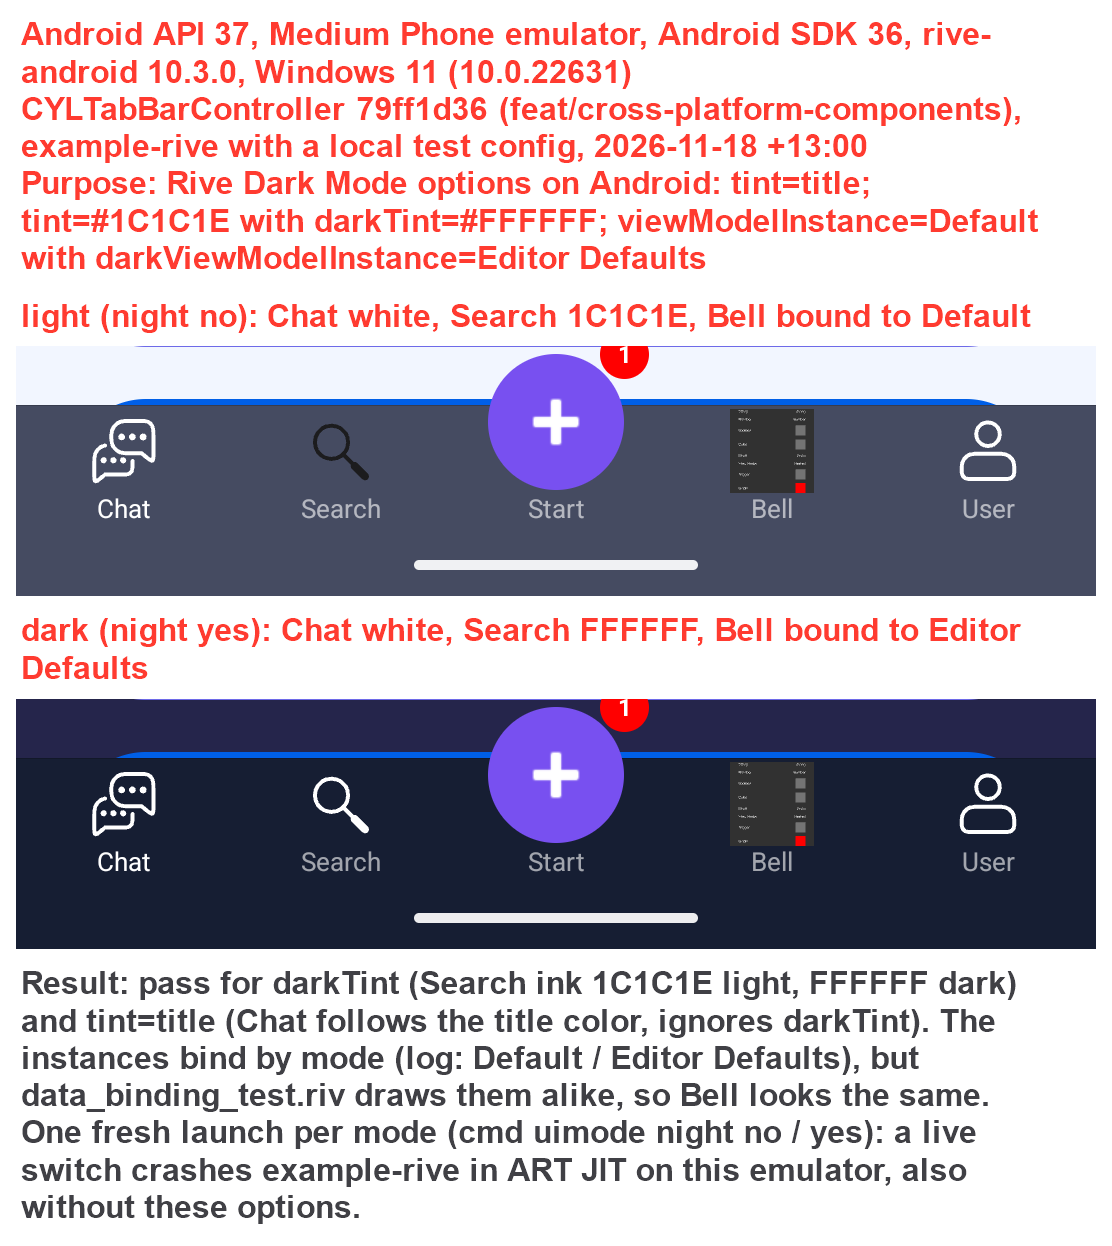
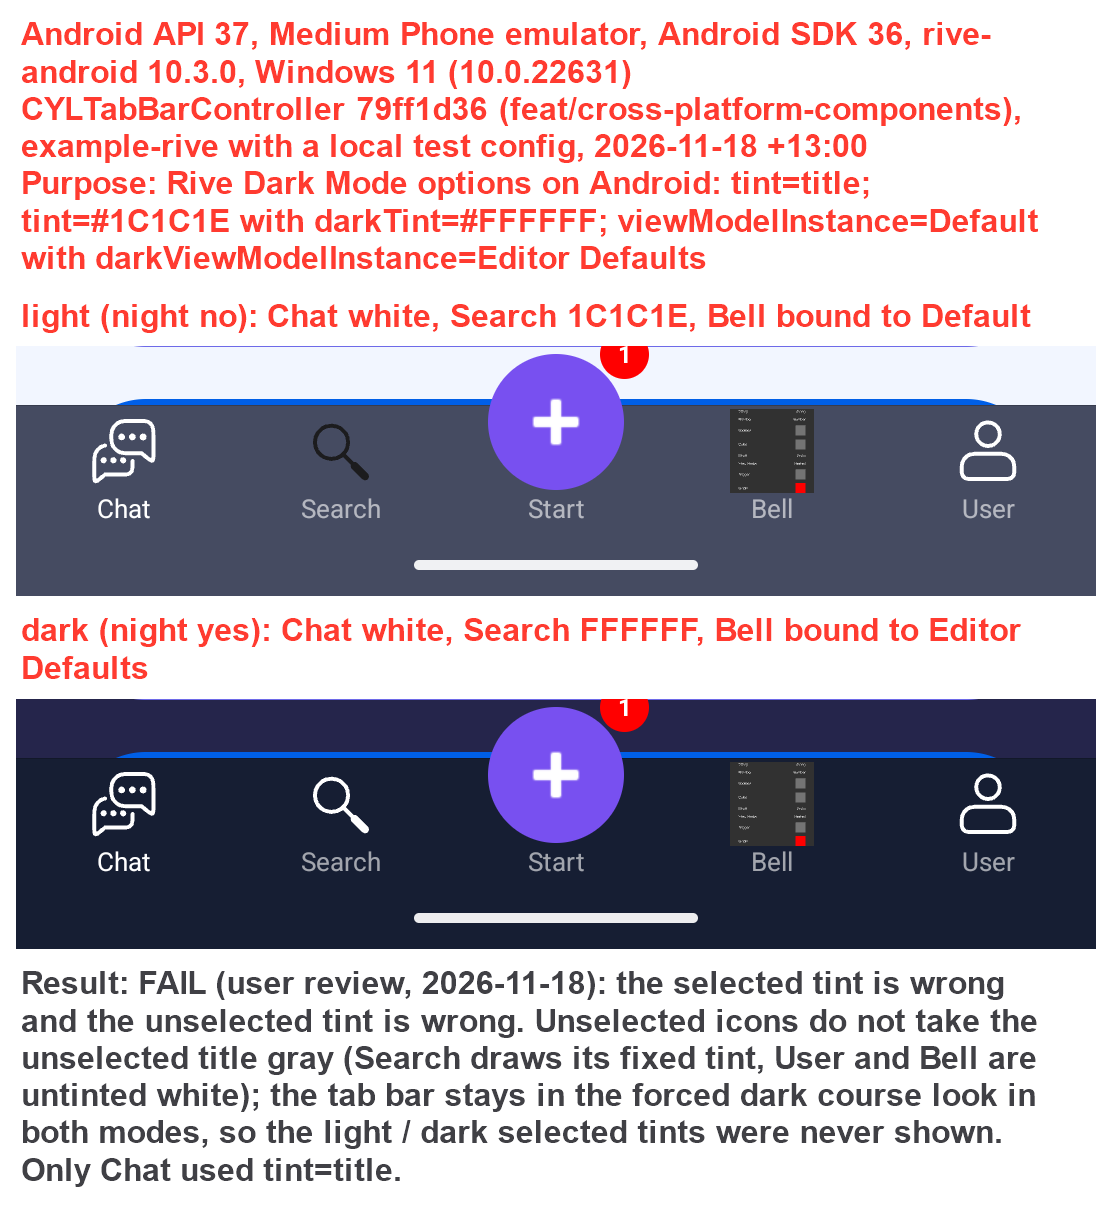
docs: 📝 Android Rive Dark Mode check marked not pass
The user rejected the screenshot: selected and unselected tints are
wrong. Unselected icons ignore the unselected title color and the bar
never leaves the forced dark look, so the light and dark tints were not
shown.

By  @ChenYilong <luohanchenyilong@163.com>

Claude-Session: https://claude.ai/code/session_017y7XNxgYZUWmEAr5XcQU9s

Changed region(s): [[0.0, 0.0306, 1.0, 0.9793]]

diff --git a/docs/Animated-Item.md b/docs/Animated-Item.md
@@ -75,7 +75,7 @@
 | 本条按用户要求使用英文（见右列）。 | DONE (2026-11-17, **verified downstream**: with `83a8ff8a` pinned, CollectionViewClassifyMenu's static-library menu suite passes, its run 44092883295 on `f8301a4` is fully green, all five test suites pass on `eb96f99`, no "module 'CYLAnimatedItem' not found"; its workarounds (modular headers, the CI diagnostic flag) are removed in `698260e`. In this repository run 936 passed the framework build, unit tests and demos with it): follow-up of the static-library bug above, reported by the CYLSearchViewController session. **Seen** (CollectionViewClassifyMenu run 44071148862, menu job, pinned at `c8132d26`, with `-disable-deserialization-recovery`): "modularization issue on 'CYLAnimatedItemView', reference from 'CollectionViewClassifyMenu' not resolvable: expected in 'CYLAnimatedItem' but found in 'CYLTabBarController'". So the angle-form `#import <CYLAnimatedItem/…>` of `c8132d26` still let clang compile the component's header into the CYLTabBarController module in a static-library app. **Fix (core)**: every public header of this library that imports a CYLAnimatedItem header (`CYLTabBarController.h` twice, `CYLSwiftInterface.h` twice, `CYLUtils.h`, `CYLUtilsMacros.h`, `UIControl+CYLTabBarItemAnimationPlayer.h`) now writes `@import CYLAnimatedItem;` when modules are on and CocoaPods' `CYLAnimatedItem-umbrella.h` exists (static libraries and frameworks alike), so the component is only ever imported as its module; the old imports stay for the Xcode framework target (its own `CYL_ANIMATED_ITEM_SEPARATE_MODULE` path, `67c79792`) and SwiftPM. Risk to check in CI: the CYLTabBarController pod target must see CYLAnimatedItem's module map (CocoaPods passes `-fmodule-map-file` for dependencies that define a module). `pod lib lint --quick` passes; not built here (Linux). |
 | 本条按用户要求使用英文（见右列）。 | DONE (2026-11-17): the first iOS CI run that finished since run 850, [run 936](https://github.com/ChenYilong/CYLTabBarController/actions/runs/44099891582) (`1e192d62`, which contains `afebfddc`, `c8132d26`, `83a8ff8a`, `67c79792` and the Lottie downloads `8990125c`). **Passed**: Framework build and analyze (no warnings: the 4 umbrella warnings of runs 848 and 850 are gone), Unit tests, Carthage (both XCFrameworks), Demo . (Objective-C example), Example-Swift, -02, -03, -04, Example-SwiftUI, Example-GIF, Example-network-download, shellcheck. **Failed and fixed here**: (1) pod lib lint: the `CYLAnimatedItem` test spec (`CYLAnimatedItemTests`, Objective-C only) could not link the Swift runtime its component needs ("Undefined symbol: __swift_FORCE_LOAD_$_swiftCompatibility56" on Xcode 26.6); the test spec now has one empty Swift file, `CYLAnimatedItemTestsSwiftRuntime.swift`. (2) Example-Swift-Gallery and Example-Swift-SwiftManager-FlatDesign (SwiftPM): "Module 'CYLTabBarControllerSwift' not found (in target 'CYLAnimatedItem')": `CYLTabBarItemAnimationPlayableView.h` imported the tab bar's Swift target under SwiftPM; it now imports the component's own `CYLAnimatedItemSwift` (the rule: the component never depends on the tab bar). **Still failing, accepted**: Example-Swift-SwiftManager (SwiftPM, Objective-C types the SwiftPM Swift target cannot see, [Swift-Migration.md](Swift-Migration.md)). `pod lib lint --quick` passes for both podspecs; the fixes wait for the next CI run. |
 | 本条按用户要求使用英文（见右列）。 | DONE (2026-11-18, macOS 27.3 + Xcode 27.2, iPhone 18 Pro iOS 27.2): TODO (6), the rest of the iOS demo. User prompt, verbatim (relayed by the Mac-CYLTableViewPlaceHolder session): "continue fix TODO". English: continue fixing the open TODO items. **Scope**: the TODO status still said "iOS simulator left" although the iOS demo exists (Example-GIF's Messages tab); the Android demo also has a vertical item with an accessory and dragging, which iOS lacked. Add that item to the iOS demo (vertical axis, an accessory with its own tap, `dragEnabled` + `dragMovesView`, the last event shown under it), localize it, screenshot it on iOS 27.2, update the TODO status. **Result**: Example-GIF's Messages tab has a fifth item, `CYLAnimatedItemDemoInteractive`: vertical (`axis`), a red cross as `accessoryView` (VoiceOver label "Delete"), `isDragEnabled` + `dragMovesView`; its delegate writes the last event under it (`CYLAnimatedItemDemoEvent`) and announces it to VoiceOver; 7 new strings in all 33 languages. Checked on the simulator with axe: a tap on the cross gives "Accessory tapped", a tap on the item "Item tapped", a drag "Drag ended, sprang back" and the item's frame is back where it was. Screenshot: `docs/assets/animated-item-ios-demo-interactive-ios27.2.png`. No bug found. |
-| 本条按用户要求使用英文（见右列）。 | DONE in part (2026-11-18, macOS 27.3 + Xcode 27.2, iPhone 18 Pro iOS 27.2): Rive Dark Mode API in the core. User prompt, verbatim: "截图中显示异常白底白字，如果rive有tint 属性，那么我推测他也应该有暗黑与白天模式适配的相关属性。寻找rive官方引擎对暗黑 白天模式适配 因为目前从截图上看 白底白字的icon 无法去辨认。请在CYLTabBar Core核心代码上修改，增加相关接口，然后在example适配。" English: the screenshot shows white icons on a white bar; if Rive has a tint property it should also have light / dark mode properties. Find how the official Rive engine adapts to dark and light mode (the white-on-white icons cannot be recognized), change the CYLTabBar core to add the API, then adapt the examples. **Findings**: the official Rive pattern is a view model with named instances ("Light", "Dark") rebound when the color scheme changes (Rive Apple data binding docs: `createViewModelInstance(.name(_, from:))`, `StateMachine.bindViewModelInstance(_:)`, RiveRuntime 6.29). The core already has `CYLTabBarRiveDarkURL` / `CYLTabBarRiveDarkFilePath` (a dark file), `CYLTabBarAnimationColors` / `CYLTabBarAnimationDarkColors` (color properties) and `tint`. **Plan**: (1) options `viewModelInstance` / `darkViewModelInstance`; (2) option `darkTint`; (3) the tint follows a light / dark switch (it resolved its color once); (4) Example-Rive and the docs; Android and HarmonyOS as a TODO. **Result**: new options `CYLTabBarAnimationOptionDarkTint` (`darkTint`: the Dark Mode color of a fixed `tint`; both Rive views resolve it again on a light / dark switch), `CYLTabBarAnimationOptionRiveViewModelInstance` / `CYLTabBarAnimationOptionRiveDarkViewModelInstance` (`viewModelInstance` / `darkViewModelInstance`: Rive's named theme instances, created with `createViewModelInstance(.name(_, from: .artboardDefault))` and rebound with `StateMachine.bindViewModelInstance` on a trait change, keeping the selected state and the color overrides). Item (3) was not needed: the "title" tint already follows light / dark (the tab bar calls `-cyl_setNeedsApplyTabBarItemAnimationTintColors` from `traitCollectionDidChange`). Example-SwiftUI-Rive / Example-Rive: icons.riv uses `tint` "title" (the selected icon in the title's tint, the user's correction: a fixed tint lost the selected color), and `-CYLDemoRiveFollowsAppearance YES` keeps the system appearance instead of the course's forced dark bar. Checked: Example-Rive builds; with tint #1C1C1E + darkTint #FFFFFF the icons switch live between light and Dark Mode: [ios-rive-dark-tint-appearance-switch.png](assets/ios-rive-dark-tint-appearance-switch.png) (iOS 27.2, iPhone 18 Pro, Xcode 27.2, 2026-11-18). `scripts/check-public-api-comments.py` OK. **Left (TODO)**: the screenshot with `tint` "title" in light and Dark Mode, the iOS unit tests, and a .riv with Light / Dark view model instances to show the instance switch (user, 2026-11-18: "download file from internet for this case"; no public file named for themes was found on GitHub; candidates downloaded from MIT-licensed Rive repositories: rive-ios `Tests/Assets/data_binding_test.riv`, whose view model "Test" has the instances "Default" and "Editor Defaults" and a Color property (rive-ios `Tests/DataBindingTests.swift`), and rive-runtime `tests/unit_tests/assets/color_passthrough_test.riv`; next: show one as a tab with `viewModelInstance` "Default" / `darkViewModelInstance` "Editor Defaults", screenshot light and dark, then keep it with a NOTICE). **Android port written on the Mac (2026-11-18)** at the user's request ("转写你刚刚的接口适配android端，将iOS代码撰写 翻译为android 代码，方便把你因为机器负载无法执行的任务交给the Windows session's CYLSearchViewController 使用android测试模拟器效果": port the iOS API to Android so the Windows session can test it on the emulator): keys `CYLTabBarAnimationOptionDarkTint`, `CYLTabBarAnimationOptionRiveViewModelInstance`, `CYLTabBarAnimationOptionRiveDarkViewModelInstance` (CYLTabBarItemAnimationKeys, aliases in CYLConstants); `CYLRiveTabBarItemAnimationView.fixedTintColor(configuration)` with `onConfigurationChanged`, and `cyl_bindThemeInstance` (rive-android by reflection, bound after load and on a night-mode change, keeping the active state); unit test `CYLRiveDarkModeTest`. Fixed on both platforms while porting: `darkTint` without a fixed tint (with "title") is ignored, it used to override the title color at night. Not compiled on the Mac (load average about 725): the Windows session builds, runs the tests and checks the emulator. **Handed off (2026-11-18)** at the user's request ("把你因为机器负载无法执行的任务交给the Windows session's CYLSearchViewController 使用android测试模拟器效果") to the Windows CYLSearchViewController session: Android parity of `darkTint` / `viewModelInstance` / `darkViewModelInstance`, the icons.riv tint check under `adb shell cmd uimode night`, and the instance switch with the candidate files on the Android emulator. Kept on the Mac (needs Xcode): the iOS unit tests, the iOS `tint` "title" screenshot: the Mac was overloaded (load average 832, `ps` and `simctl` hung), so the simulator runs stopped; Android and HarmonyOS parity. **Android checked on Windows (2026-11-18)**, Medium Phone emulator API 37, Android SDK 36, rive-android 10.3.0, JDK 17, Windows 11: (1) `:cylanimateditem` unit tests 44 of 44 after two fixes in `79ff1d36` (the test fake exposed `val file` next to `getFile()`, a JVM signature clash; a file used without a `stateMachine` option never recorded the selection, so a theme instance bound on a night switch lost it: the last frame and stop paths record it now). (2) `darkTint`: Search tab with `tint` "#1C1C1E" + `darkTint` "#FFFFFF" draws ink 1C1C1E in light and FFFFFF in dark; `tint` "title" (Chat) follows the title color and ignores `darkTint` ([assets/android-api37-20261118-rive-dark-mode-options.png](assets/android-api37-20261118-rive-dark-mode-options.png), 2026-11-18 +13:00). Example-Rive forces night (`localNightMode = MODE_NIGHT_YES`), so the check used a local test build that follows the system, not committed. (3) Instances: with `data_binding_test.riv` (view model "Test", artboard "Artboard", no state machine) the light build binds "Default" and the dark build "Editor Defaults" on the artboard (debug log), but the file draws both alike, so nothing visible changes; `color_passthrough_test.riv` has only one instance ("Instance"; the missing dark name logs a warning and the light side falls back to the default instance). Neither file is kept. (4) A live `cmd uimode night yes/no` crashes Example-Rive in ART's JIT thread (SIGSEGV in `JitCompileTask::Finalize`) on this emulator, also in the unmodified example without these options and after `cmd package compile -m speed`; each mode was checked on a fresh launch (the same init / load path a recreated activity takes). **Still left (TODO)**: a .riv whose light and dark instances look different, to show the switch; the live-switch crash in Example-Rive (Android 17 x86_64 emulator), to be checked on another image or device. |
+| 本条按用户要求使用英文（见右列）。 | DONE in part (2026-11-18, macOS 27.3 + Xcode 27.2, iPhone 18 Pro iOS 27.2): Rive Dark Mode API in the core. User prompt, verbatim: "截图中显示异常白底白字，如果rive有tint 属性，那么我推测他也应该有暗黑与白天模式适配的相关属性。寻找rive官方引擎对暗黑 白天模式适配 因为目前从截图上看 白底白字的icon 无法去辨认。请在CYLTabBar Core核心代码上修改，增加相关接口，然后在example适配。" English: the screenshot shows white icons on a white bar; if Rive has a tint property it should also have light / dark mode properties. Find how the official Rive engine adapts to dark and light mode (the white-on-white icons cannot be recognized), change the CYLTabBar core to add the API, then adapt the examples. **Findings**: the official Rive pattern is a view model with named instances ("Light", "Dark") rebound when the color scheme changes (Rive Apple data binding docs: `createViewModelInstance(.name(_, from:))`, `StateMachine.bindViewModelInstance(_:)`, RiveRuntime 6.29). The core already has `CYLTabBarRiveDarkURL` / `CYLTabBarRiveDarkFilePath` (a dark file), `CYLTabBarAnimationColors` / `CYLTabBarAnimationDarkColors` (color properties) and `tint`. **Plan**: (1) options `viewModelInstance` / `darkViewModelInstance`; (2) option `darkTint`; (3) the tint follows a light / dark switch (it resolved its color once); (4) Example-Rive and the docs; Android and HarmonyOS as a TODO. **Result**: new options `CYLTabBarAnimationOptionDarkTint` (`darkTint`: the Dark Mode color of a fixed `tint`; both Rive views resolve it again on a light / dark switch), `CYLTabBarAnimationOptionRiveViewModelInstance` / `CYLTabBarAnimationOptionRiveDarkViewModelInstance` (`viewModelInstance` / `darkViewModelInstance`: Rive's named theme instances, created with `createViewModelInstance(.name(_, from: .artboardDefault))` and rebound with `StateMachine.bindViewModelInstance` on a trait change, keeping the selected state and the color overrides). Item (3) was not needed: the "title" tint already follows light / dark (the tab bar calls `-cyl_setNeedsApplyTabBarItemAnimationTintColors` from `traitCollectionDidChange`). Example-SwiftUI-Rive / Example-Rive: icons.riv uses `tint` "title" (the selected icon in the title's tint, the user's correction: a fixed tint lost the selected color), and `-CYLDemoRiveFollowsAppearance YES` keeps the system appearance instead of the course's forced dark bar. Checked: Example-Rive builds; with tint #1C1C1E + darkTint #FFFFFF the icons switch live between light and Dark Mode: [ios-rive-dark-tint-appearance-switch.png](assets/ios-rive-dark-tint-appearance-switch.png) (iOS 27.2, iPhone 18 Pro, Xcode 27.2, 2026-11-18). `scripts/check-public-api-comments.py` OK. **Left (TODO)**: the screenshot with `tint` "title" in light and Dark Mode, the iOS unit tests, and a .riv with Light / Dark view model instances to show the instance switch (user, 2026-11-18: "download file from internet for this case"; no public file named for themes was found on GitHub; candidates downloaded from MIT-licensed Rive repositories: rive-ios `Tests/Assets/data_binding_test.riv`, whose view model "Test" has the instances "Default" and "Editor Defaults" and a Color property (rive-ios `Tests/DataBindingTests.swift`), and rive-runtime `tests/unit_tests/assets/color_passthrough_test.riv`; next: show one as a tab with `viewModelInstance` "Default" / `darkViewModelInstance` "Editor Defaults", screenshot light and dark, then keep it with a NOTICE). **Android port written on the Mac (2026-11-18)** at the user's request ("转写你刚刚的接口适配android端，将iOS代码撰写 翻译为android 代码，方便把你因为机器负载无法执行的任务交给the Windows session's CYLSearchViewController 使用android测试模拟器效果": port the iOS API to Android so the Windows session can test it on the emulator): keys `CYLTabBarAnimationOptionDarkTint`, `CYLTabBarAnimationOptionRiveViewModelInstance`, `CYLTabBarAnimationOptionRiveDarkViewModelInstance` (CYLTabBarItemAnimationKeys, aliases in CYLConstants); `CYLRiveTabBarItemAnimationView.fixedTintColor(configuration)` with `onConfigurationChanged`, and `cyl_bindThemeInstance` (rive-android by reflection, bound after load and on a night-mode change, keeping the active state); unit test `CYLRiveDarkModeTest`. Fixed on both platforms while porting: `darkTint` without a fixed tint (with "title") is ignored, it used to override the title color at night. Not compiled on the Mac (load average about 725): the Windows session builds, runs the tests and checks the emulator. **Handed off (2026-11-18)** at the user's request ("把你因为机器负载无法执行的任务交给the Windows session's CYLSearchViewController 使用android测试模拟器效果") to the Windows CYLSearchViewController session: Android parity of `darkTint` / `viewModelInstance` / `darkViewModelInstance`, the icons.riv tint check under `adb shell cmd uimode night`, and the instance switch with the candidate files on the Android emulator. Kept on the Mac (needs Xcode): the iOS unit tests, the iOS `tint` "title" screenshot: the Mac was overloaded (load average 832, `ps` and `simctl` hung), so the simulator runs stopped; Android and HarmonyOS parity. **Android check: NOT PASS (user review, 2026-11-18: "mark as not pass selected tint is wrong un selected tint is wrong")**: in the screenshot below unselected icons do not take the unselected title color (Search draws its fixed tint, User and Bell are untinted white) and the tab bar keeps the forced dark course look in both modes, so the light / dark selected tints were never shown; only Chat used `tint` "title". Next: every tab with `tint` "title" and a tab bar whose title colors follow the mode, then check selected = selected title color and unselected = normal title color in light and dark; `darkTint` on its own tab against a light and a dark bar. Earlier notes: **Android checked on Windows (2026-11-18)**, Medium Phone emulator API 37, Android SDK 36, rive-android 10.3.0, JDK 17, Windows 11: (1) `:cylanimateditem` unit tests 44 of 44 after two fixes in `79ff1d36` (the test fake exposed `val file` next to `getFile()`, a JVM signature clash; a file used without a `stateMachine` option never recorded the selection, so a theme instance bound on a night switch lost it: the last frame and stop paths record it now). (2) `darkTint` (measured, but judged wrong by the user, above): Search tab with `tint` "#1C1C1E" + `darkTint` "#FFFFFF" draws ink 1C1C1E in light and FFFFFF in dark; `tint` "title" (Chat) follows the title color and ignores `darkTint` ([assets/android-api37-20261118-rive-dark-mode-options.png](assets/android-api37-20261118-rive-dark-mode-options.png), 2026-11-18 +13:00). Example-Rive forces night (`localNightMode = MODE_NIGHT_YES`), so the check used a local test build that follows the system, not committed. (3) Instances: with `data_binding_test.riv` (view model "Test", artboard "Artboard", no state machine) the light build binds "Default" and the dark build "Editor Defaults" on the artboard (debug log), but the file draws both alike, so nothing visible changes; `color_passthrough_test.riv` has only one instance ("Instance"; the missing dark name logs a warning and the light side falls back to the default instance). Neither file is kept. (4) A live `cmd uimode night yes/no` crashes Example-Rive in ART's JIT thread (SIGSEGV in `JitCompileTask::Finalize`) on this emulator, also in the unmodified example without these options and after `cmd package compile -m speed`; each mode was checked on a fresh launch (the same init / load path a recreated activity takes). **Still left (TODO)**: a .riv whose light and dark instances look different, to show the switch; the live-switch crash in Example-Rive (Android 17 x86_64 emulator), to be checked on another image or device. |
 | 本条按用户要求使用英文（见右列）。 | TODO (2026-11-18, macOS 27.3 + Xcode 27.2, iPhone 18 Pro iOS 27.2): dark mode and tint for every engine, and the tab bar item appearance in `CYLAnimatedItemView`. User prompt, verbatim: "对所有动效引擎执行Rive类似操作，查找组件官方引擎对暗黑模式适配，tintcolor官方支持，包括但不限于gif lottie pag rive等等动效组件。并在AnimatedView组件中一比一复刻tabbar的appearence相关样式预处理接口，在tabbar初始化时将tabbar的appearence赋值给AnimatedView组件。该操作可以参考扁平样式中tabbaritem的appearence的赋值匹配操作。你也可以直接将扁平样式中tabbaritem的appearence涉及icon与title的相关接口移动到AnimatedView组件中，使tabbar的appearence直接赋值给AnimatedView组件。扁平样式中tabbaritem的appearence涉及两个大的类别，第一个类别是icon与title的。第二个是tabbar的。我们移动第一个即可" (sent twice). English: do for every animation engine what was done for Rive: find each official engine's dark mode adaptation and official tint color support (GIF, Lottie, PAG, Rive and the others). In the AnimatedView component, replicate one to one the tab bar's appearance preprocessing API, and assign the tab bar's appearance to the AnimatedView component when the tab bar is set up, like the FlatDesign tab bar item's appearance mapping. Or move the FlatDesign item appearance API for the icon and the title into AnimatedView, so the tab bar's appearance is assigned to it directly. FlatDesign's appearance has two groups, (1) the icon and the title, (2) the tab bar; move only the first. **Engines, official support found**: GIF: UIKit template images (`withRenderingMode(.alwaysTemplate)` + `tintColor`, dynamic colors resolve per appearance); Lottie (lottie-ios 4): `ColorValueProvider` on an `AnimationKeypath` (e.g. `**.Color`), re-applied on a trait change; PAG: no tint API, editable `PAGSolidLayer.setSolidColor` / `PAGTextLayer.setFillColor` only; SVGA: no tint API (`setImage:forKey:`); Rive: data binding colors and named view model instances. Engines without a tint API use the same template overlay as Rive (sourceAtop). **Plan**: (1) `CYLAnimatedItemView` gets the icon and title part of `UITabBarItemAppearance` (normal / selected / disabled: `iconColor`, `titleTextAttributes`, `titlePositionAdjustment`), moved from `CYLFlatDesignTabBarButton`; (2) the icon color tints the static image and the animation (each engine's official way, else the overlay); (3) the tab bar assigns its `standardAppearance` to the items at setup and on change; (4) tests, Example screenshots in light and Dark Mode. |
 
 ## [CN]结构
